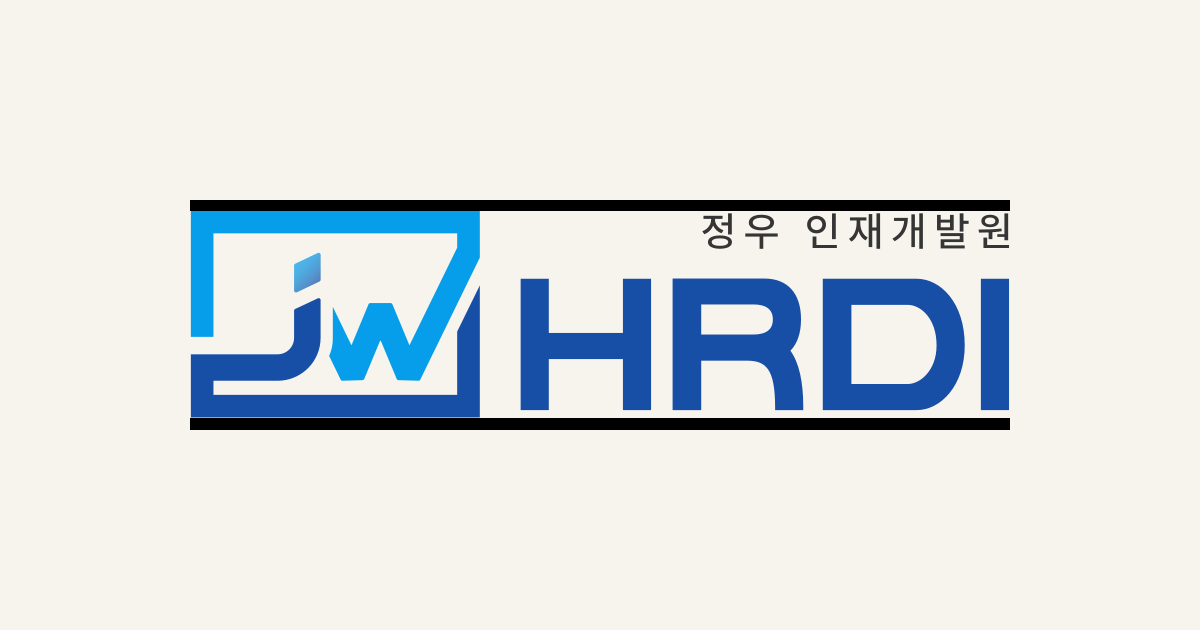
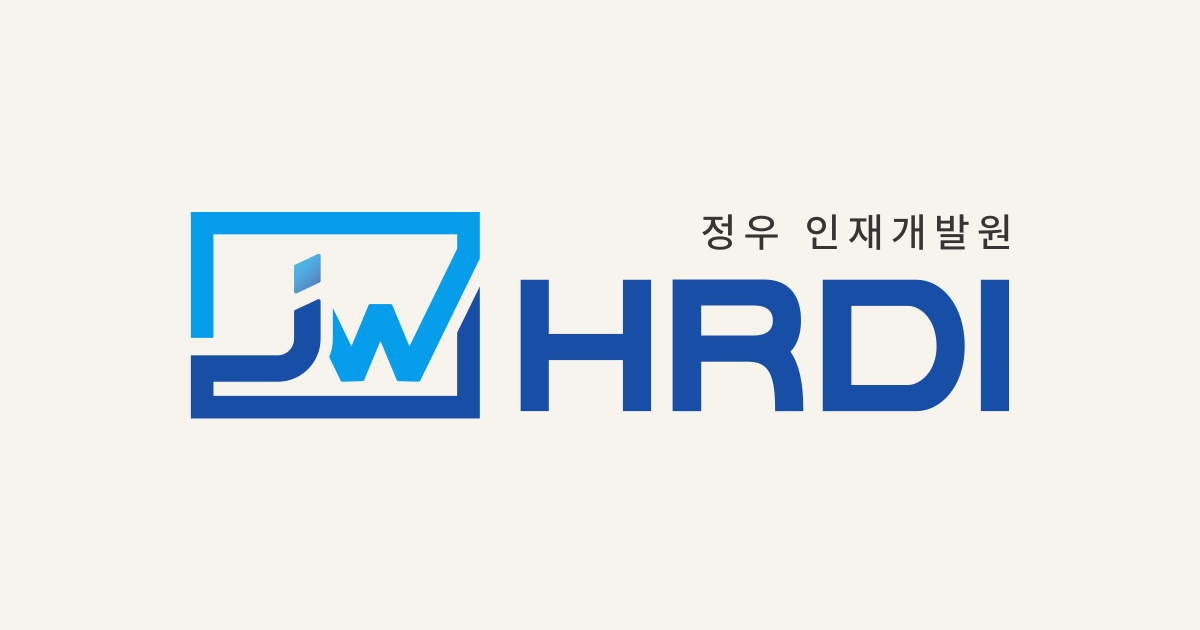
fix: preserve brand social card background

diff --git a/company/test/brand-assets.test.ts b/company/test/brand-assets.test.ts
@@ -2,6 +2,7 @@ import assert from "node:assert/strict";
 import fs from "node:fs";
 import path from "node:path";
 import test from "node:test";
+import sharp from "sharp";
 
 const root = path.resolve(import.meta.dirname, "..");
 
@@ -69,4 +70,20 @@ test("official brand assets satisfy the published vector and raster contract", (
   assert.deepEqual(readPngDimensions(path.join(root, "app/apple-icon.png")), { width: 180, height: 180 });
   assert.deepEqual(readPngDimensions(path.join(root, "public/brand/og-image.png")), { width: 1200, height: 630 });
   assert.deepEqual(readIcoSizes(path.join(root, "app/favicon.ico")).sort((a, b) => a - b), [16, 32, 48]);
+});
+
+test("official social card preserves the light background around the lockup", async () => {
+  const { data, info } = await sharp(path.join(root, "public/brand/og-image.png"))
+    .ensureAlpha()
+    .raw()
+    .toBuffer({ resolveWithObject: true });
+  const x = 600;
+  const y = 205;
+  const pixelOffset = (y * info.width + x) * info.channels;
+
+  assert.deepEqual(
+    [...data.subarray(pixelOffset, pixelOffset + 4)],
+    [247, 244, 237, 255],
+    "the lockup's padded top edge must composite to the #F7F4ED card background",
+  );
 });
